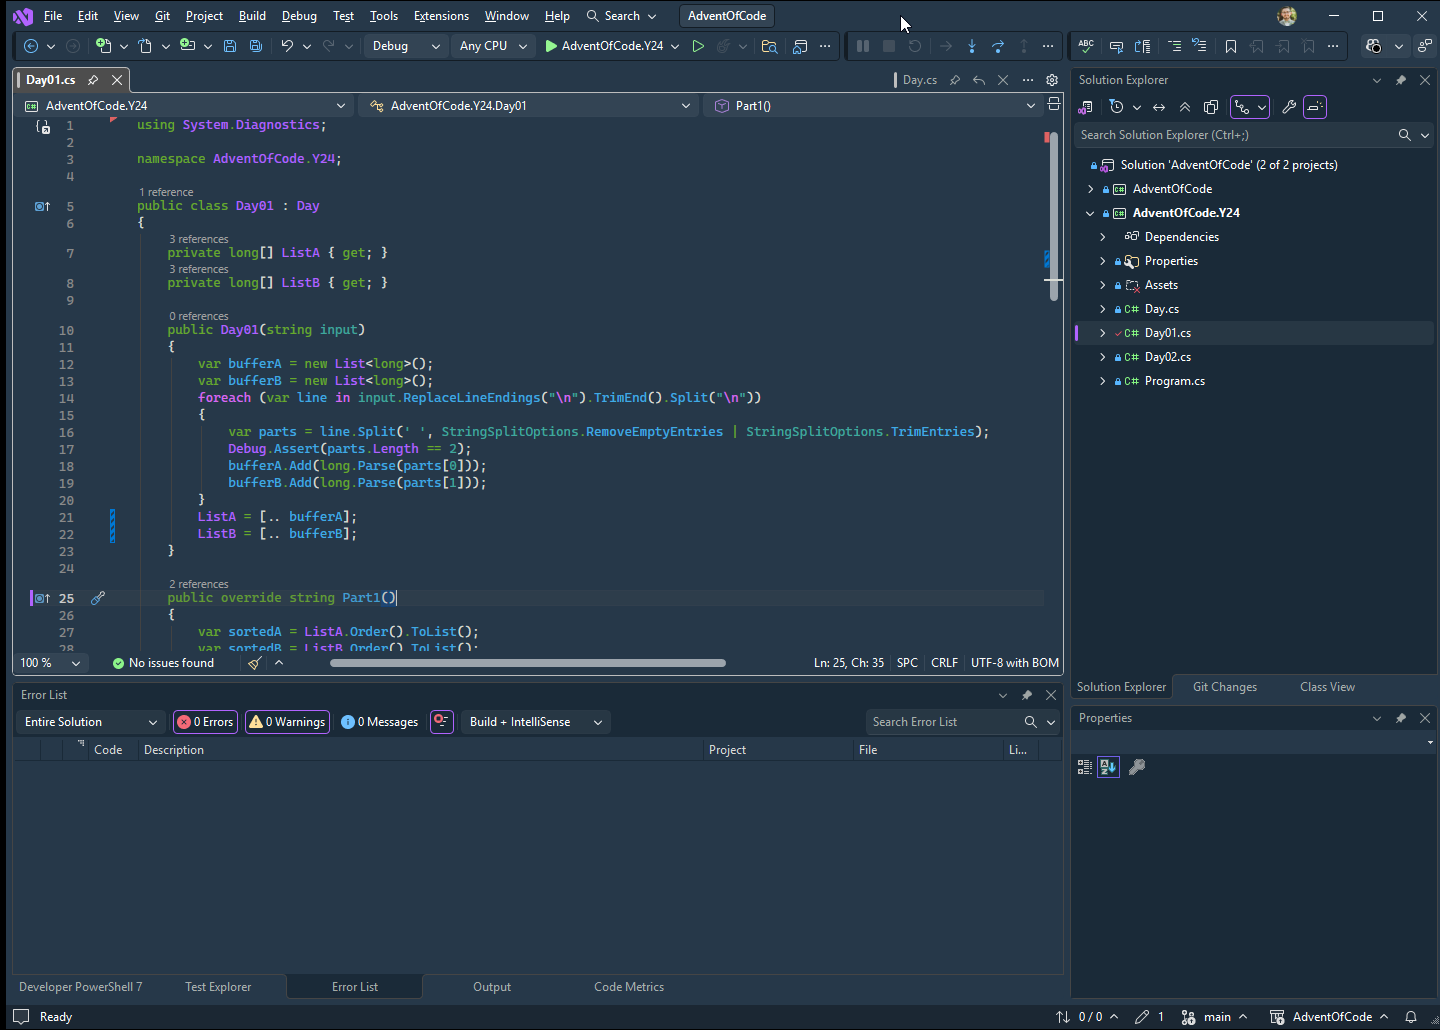
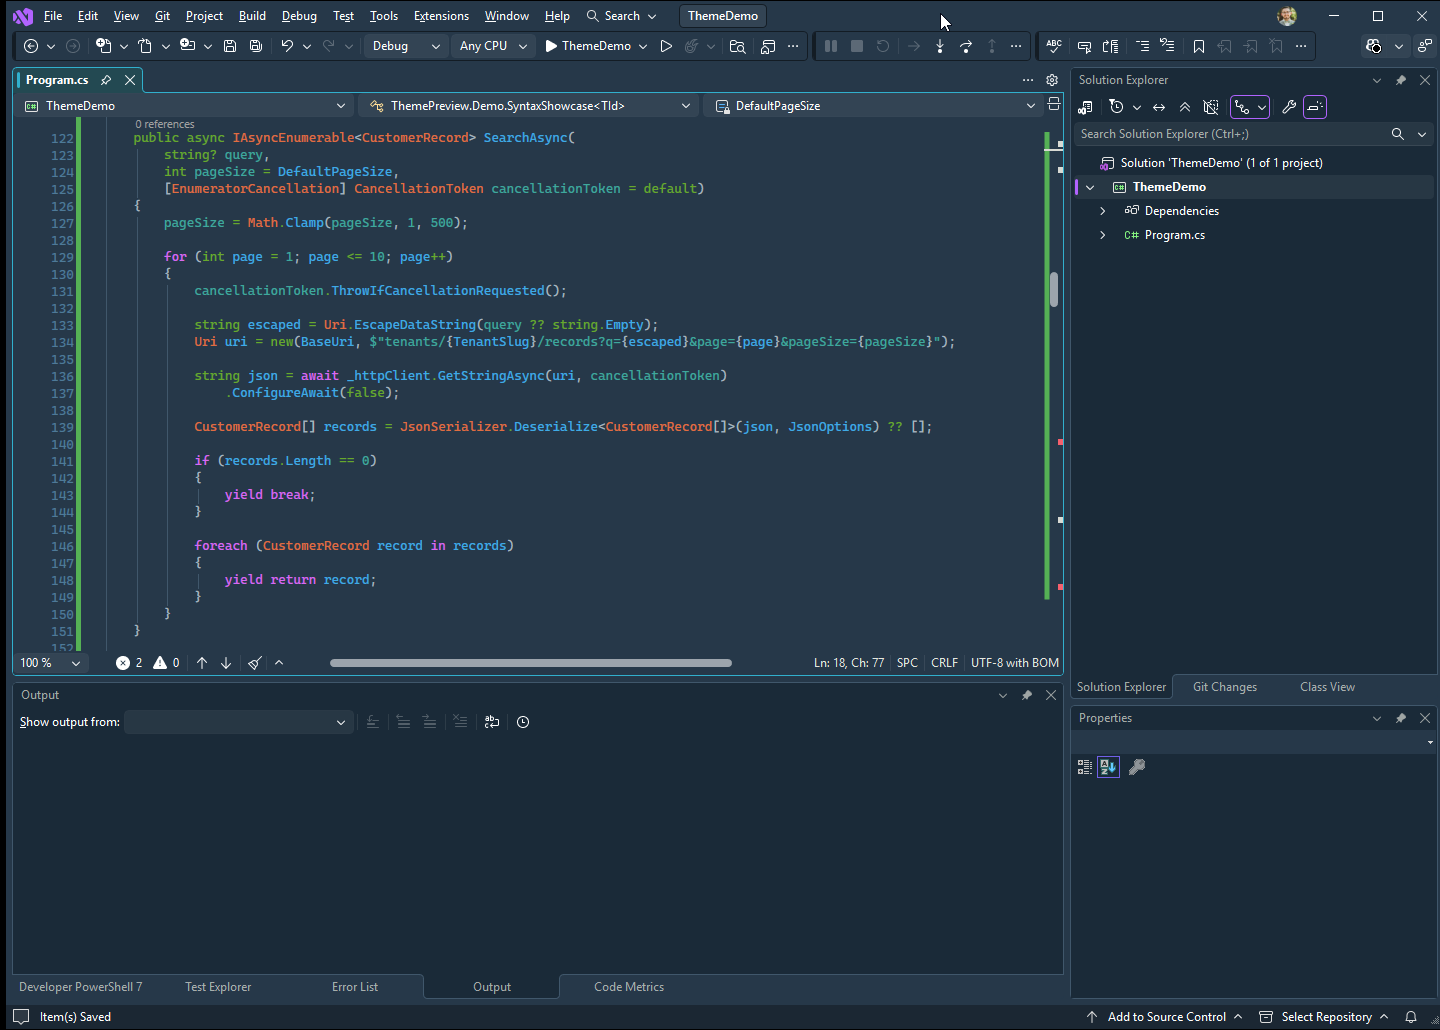
theme update

diff --git a/src/source.extension.cs b/src/source.extension.cs
@@ -12,7 +12,7 @@ namespace Helion
         public const string Name = "Helion";
         public const string Description = @"A dark mode theme for Visual Studio 2026.";
         public const string Language = "en-US";
-        public const string Version = "1.0.33";
+        public const string Version = "1.0.35";
         public const string Author = "Brandon Gandy";
         public const string Tags = "theme, dark";
         public const bool IsPreview = false;